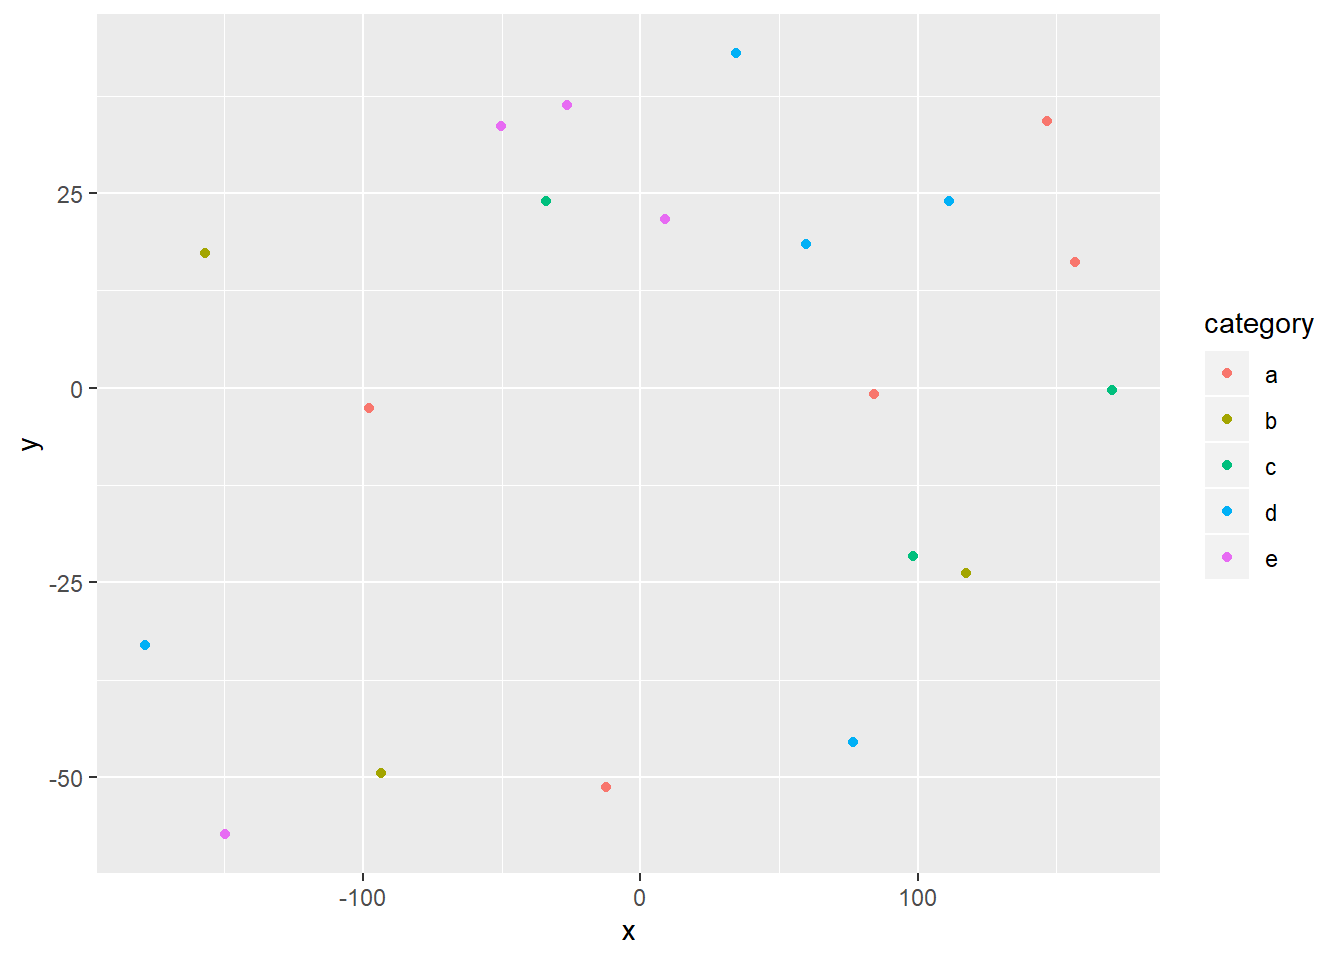
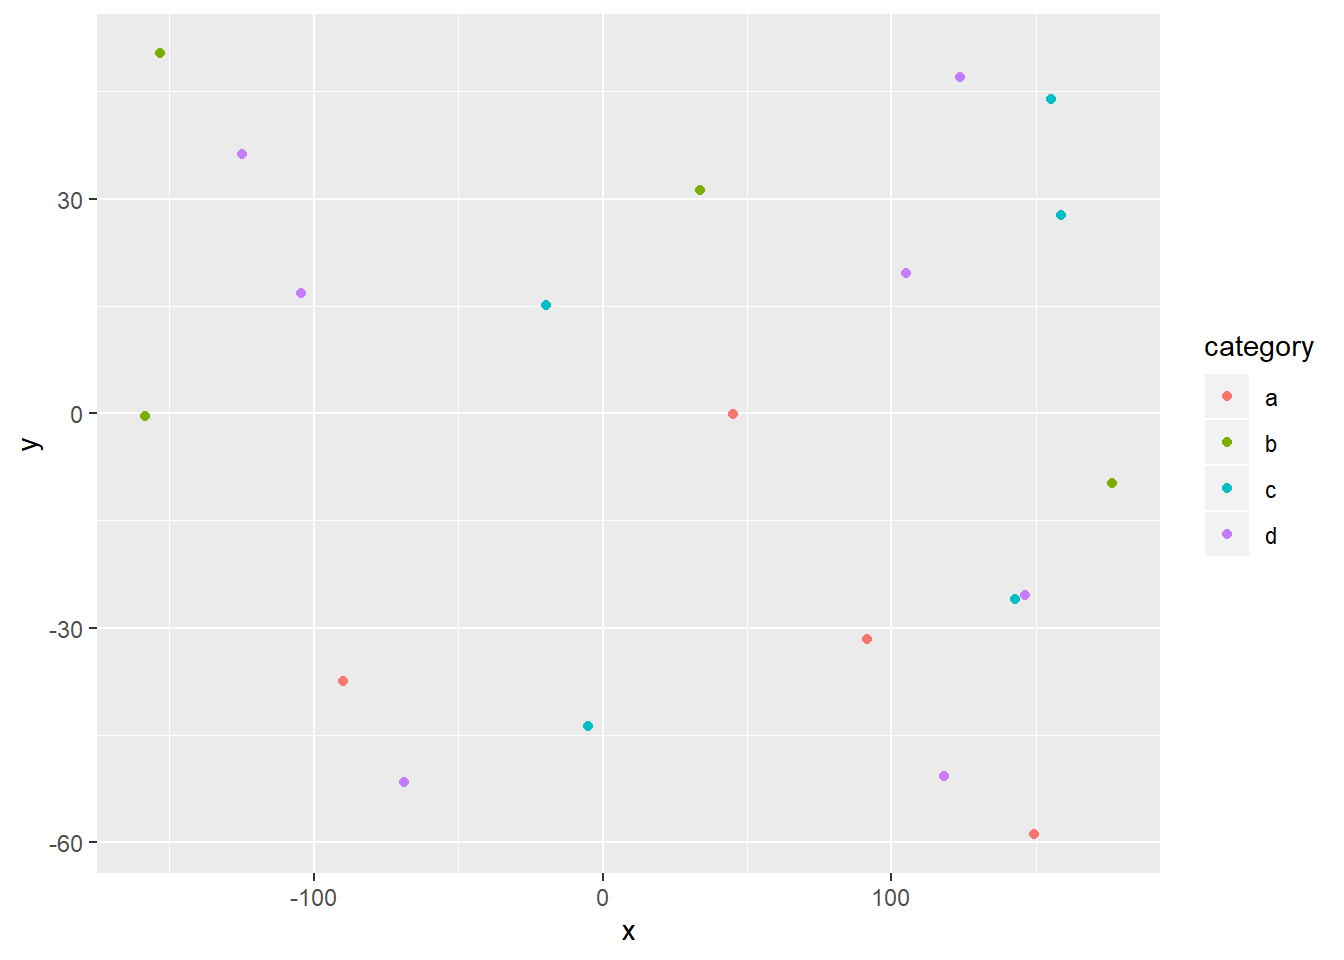
change

diff --git a/docs/index.html b/docs/index.html
@@ -368,7 +368,7 @@ div.tocify {
 
 
 <h1 class="title toc-ignore">Unmixing vegetation, soil and urban using linear mixture analysis</h1>
-<h3 class="subtitle">jokok</h3>
+<h3 class="subtitle">No subtitle</h3>
 <h4 class="author">Ke Li</h4>
 
 </div>
@@ -440,172 +440,172 @@ value
 <tbody>
 <tr>
 <td style="text-align:center;">
--178.67
+149.23
 </td>
 <td style="text-align:center;">
--33.07
+-58.89
 </td>
 <td style="text-align:center;">
-9.42
-</td>
-<td style="text-align:center;">
-d
-</td>
-<td style="text-align:center;">
--1.62
-</td>
-</tr>
-<tr>
-<td style="text-align:center;">
--33.94
-</td>
-<td style="text-align:center;">
-24.02
-</td>
-<td style="text-align:center;">
-13.06
-</td>
-<td style="text-align:center;">
-c
-</td>
-<td style="text-align:center;">
--1.89
-</td>
-</tr>
-<tr>
-<td style="text-align:center;">
--26.43
-</td>
-<td style="text-align:center;">
-36.31
-</td>
-<td style="text-align:center;">
-14.96
-</td>
-<td style="text-align:center;">
-e
-</td>
-<td style="text-align:center;">
--2.04
-</td>
-</tr>
-<tr>
-<td style="text-align:center;">
-170.06
-</td>
-<td style="text-align:center;">
--0.32
-</td>
-<td style="text-align:center;">
-7.84
-</td>
-<td style="text-align:center;">
-c
-</td>
-<td style="text-align:center;">
--0.44
-</td>
-</tr>
-<tr>
-<td style="text-align:center;">
-111.22
-</td>
-<td style="text-align:center;">
-23.98
-</td>
-<td style="text-align:center;">
-10.93
-</td>
-<td style="text-align:center;">
-d
-</td>
-<td style="text-align:center;">
--0.65
-</td>
-</tr>
-<tr>
-<td style="text-align:center;">
--93.64
-</td>
-<td style="text-align:center;">
--49.43
-</td>
-<td style="text-align:center;">
-19.97
-</td>
-<td style="text-align:center;">
-b
-</td>
-<td style="text-align:center;">
-0.16
-</td>
-</tr>
-<tr>
-<td style="text-align:center;">
-9.01
-</td>
-<td style="text-align:center;">
-21.69
-</td>
-<td style="text-align:center;">
-17.22
-</td>
-<td style="text-align:center;">
-e
-</td>
-<td style="text-align:center;">
-0.92
-</td>
-</tr>
-<tr>
-<td style="text-align:center;">
-34.31
-</td>
-<td style="text-align:center;">
-42.99
-</td>
-<td style="text-align:center;">
-15.92
-</td>
-<td style="text-align:center;">
-d
-</td>
-<td style="text-align:center;">
--2.19
-</td>
-</tr>
-<tr>
-<td style="text-align:center;">
-146.51
-</td>
-<td style="text-align:center;">
-34.23
-</td>
-<td style="text-align:center;">
-9.59
+14.43
 </td>
 <td style="text-align:center;">
 a
 </td>
 <td style="text-align:center;">
-1.41
+1.06
 </td>
 </tr>
 <tr>
 <td style="text-align:center;">
-76.56
+123.83
 </td>
 <td style="text-align:center;">
--45.51
+47.06
 </td>
 <td style="text-align:center;">
-5.65
+17.12
 </td>
 <td style="text-align:center;">
 d
 </td>
 <td style="text-align:center;">
--1.45
+1.60
+</td>
+</tr>
+<tr>
+<td style="text-align:center;">
+155.16
+</td>
+<td style="text-align:center;">
+43.94
+</td>
+<td style="text-align:center;">
+6.28
+</td>
+<td style="text-align:center;">
+c
+</td>
+<td style="text-align:center;">
+0.10
+</td>
+</tr>
+<tr>
+<td style="text-align:center;">
+-4.97
+</td>
+<td style="text-align:center;">
+-43.77
+</td>
+<td style="text-align:center;">
+5.35
+</td>
+<td style="text-align:center;">
+c
+</td>
+<td style="text-align:center;">
+0.74
+</td>
+</tr>
+<tr>
+<td style="text-align:center;">
+118.35
+</td>
+<td style="text-align:center;">
+-50.78
+</td>
+<td style="text-align:center;">
+19.40
+</td>
+<td style="text-align:center;">
+d
+</td>
+<td style="text-align:center;">
+1.34
+</td>
+</tr>
+<tr>
+<td style="text-align:center;">
+-104.27
+</td>
+<td style="text-align:center;">
+16.82
+</td>
+<td style="text-align:center;">
+5.86
+</td>
+<td style="text-align:center;">
+d
+</td>
+<td style="text-align:center;">
+-1.10
+</td>
+</tr>
+<tr>
+<td style="text-align:center;">
+-68.79
+</td>
+<td style="text-align:center;">
+-51.50
+</td>
+<td style="text-align:center;">
+12.88
+</td>
+<td style="text-align:center;">
+d
+</td>
+<td style="text-align:center;">
+1.33
+</td>
+</tr>
+<tr>
+<td style="text-align:center;">
+104.92
+</td>
+<td style="text-align:center;">
+19.66
+</td>
+<td style="text-align:center;">
+12.68
+</td>
+<td style="text-align:center;">
+d
+</td>
+<td style="text-align:center;">
+1.66
+</td>
+</tr>
+<tr>
+<td style="text-align:center;">
+33.70
+</td>
+<td style="text-align:center;">
+31.16
+</td>
+<td style="text-align:center;">
+13.22
+</td>
+<td style="text-align:center;">
+b
+</td>
+<td style="text-align:center;">
+-0.29
+</td>
+</tr>
+<tr>
+<td style="text-align:center;">
+45.02
+</td>
+<td style="text-align:center;">
+-0.16
+</td>
+<td style="text-align:center;">
+11.30
+</td>
+<td style="text-align:center;">
+a
+</td>
+<td style="text-align:center;">
+-2.13
 </td>
 </tr>
 </tbody>
@@ -622,8 +622,8 @@ d
   addPopups(~x[2], ~y[2], &quot;Random popup&quot;)
 m  # a map with the default OSM tile layer</code></pre>
 <div class="figure">
-<div id="htmlwidget-de61f09d5a257117f255" style="width:576px;height:288px;" class="leaflet html-widget"></div>
-<script type="application/json" data-for="htmlwidget-de61f09d5a257117f255">{"x":{"options":{"crs":{"crsClass":"L.CRS.EPSG3857","code":null,"proj4def":null,"projectedBounds":null,"options":{}}},"calls":[{"method":"addTiles","args":["//{s}.tile.openstreetmap.org/{z}/{x}/{y}.png",null,null,{"minZoom":0,"maxZoom":18,"tileSize":256,"subdomains":"abc","errorTileUrl":"","tms":false,"noWrap":false,"zoomOffset":0,"zoomReverse":false,"opacity":1,"zIndex":1,"detectRetina":false,"attribution":"&copy; <a href=\"http://openstreetmap.org\">OpenStreetMap<\/a> contributors, <a href=\"http://creativecommons.org/licenses/by-sa/2.0/\">CC-BY-SA<\/a>"}]},{"method":"addCircleMarkers","args":[[-33.069566572085,24.0209404751658,36.3055015727878,-0.318485302850604,23.9769291970879,-49.4251515436918,21.6904523503035,42.9869028925896,34.2309481278062,-45.5079367104918,16.1417607497424,-0.833394667133689,-21.56673213467,-23.8330422341824,33.6844487674534,-57.3697753250599,-51.2797445431352,18.5349761880934,-2.57016110233963,17.3680675216019],[-178.665560111403,-33.9444634225219,-26.4300960302353,170.061966665089,111.219265395775,-93.641289845109,9.01156070642173,34.3105103541166,146.514964532107,76.5595561545342,156.643073195592,84.3847481533885,98.2282597851008,117.514739446342,-50.2719991654158,-149.752975283191,-12.589113553986,59.5358280837536,-97.8964571189135,-156.950829690322],[9.4211109355092,13.0599273159169,14.9639102187939,7.8421066980809,10.9256097732577,19.9667231738567,17.2163610754069,15.923541279044,9.59151093382388,5.64601036254317,6.11351286293939,14.9245115020312,17.1928107528947,8.95131548517384,18.8871716661379,19.2296577629168,13.3973432763014,13.8091544841882,16.1621342238504,13.5198364651296],null,null,{"interactive":true,"className":"","stroke":true,"color":["d","c","e","c","d","b","e","d","a","d","a","a","c","b","e","e","a","d","a","b"],"weight":5,"opacity":0.5,"fill":true,"fillColor":["d","c","e","c","d","b","e","d","a","d","a","a","c","b","e","e","a","d","a","b"],"fillOpacity":0.2},null,null,null,null,null,{"interactive":false,"permanent":false,"direction":"auto","opacity":1,"offset":[0,0],"textsize":"10px","textOnly":false,"className":"","sticky":true},null]},{"method":"addPopups","args":[24.0209404751658,-33.9444634225219,"Random popup",null,null,{"maxWidth":300,"minWidth":50,"autoPan":true,"keepInView":false,"closeButton":true,"className":""}]}],"limits":{"lat":[-57.3697753250599,42.9869028925896],"lng":[-178.665560111403,170.061966665089]}},"evals":[],"jsHooks":[]}</script>
+<div id="htmlwidget-002770f205adc13c9284" style="width:576px;height:288px;" class="leaflet html-widget"></div>
+<script type="application/json" data-for="htmlwidget-002770f205adc13c9284">{"x":{"options":{"crs":{"crsClass":"L.CRS.EPSG3857","code":null,"proj4def":null,"projectedBounds":null,"options":{}}},"calls":[{"method":"addTiles","args":["//{s}.tile.openstreetmap.org/{z}/{x}/{y}.png",null,null,{"minZoom":0,"maxZoom":18,"tileSize":256,"subdomains":"abc","errorTileUrl":"","tms":false,"noWrap":false,"zoomOffset":0,"zoomReverse":false,"opacity":1,"zIndex":1,"detectRetina":false,"attribution":"&copy; <a href=\"http://openstreetmap.org\">OpenStreetMap<\/a> contributors, <a href=\"http://creativecommons.org/licenses/by-sa/2.0/\">CC-BY-SA<\/a>"}]},{"method":"addCircleMarkers","args":[[-58.8949367031455,47.0587040763348,43.9401089306921,-43.7721710745245,-50.7847544364631,16.8155353423208,-51.5039299149066,19.6575680281967,31.1554729286581,-0.158956227824092,15.1787350606173,50.3357696067542,-0.33901515416801,-37.4042803421617,36.2011318746954,-31.6280383430421,-9.8059309925884,-25.3769010398537,-25.9309492819011,27.7745505329221],[149.232934433967,123.832393102348,155.158222066239,-4.97251594439149,118.354766825214,-104.270865647122,-68.7909223046154,104.924738835543,33.7013038247824,45.0172139145434,-19.4609212316573,-153.283300632611,-158.40470071882,-89.9530844762921,-124.655595738441,91.4463387988508,176.406748602167,146.350598093122,142.904128236696,158.584150895476],[14.4316891266499,17.1226371766534,6.27954134251922,5.34613716299646,19.4030893105082,5.85642379242927,12.8770802298095,12.6786975585856,13.2192638481501,11.3005701743532,11.9256250769831,15.774099555565,15.3038904967252,13.6763794207945,19.4873168342747,17.0600859005935,19.0309318702202,17.3774524428882,12.0712256222032,13.4222202375531],null,null,{"interactive":true,"className":"","stroke":true,"color":["a","d","c","c","d","d","d","d","b","a","c","b","b","a","d","a","b","d","c","c"],"weight":5,"opacity":0.5,"fill":true,"fillColor":["a","d","c","c","d","d","d","d","b","a","c","b","b","a","d","a","b","d","c","c"],"fillOpacity":0.2},null,null,null,null,null,{"interactive":false,"permanent":false,"direction":"auto","opacity":1,"offset":[0,0],"textsize":"10px","textOnly":false,"className":"","sticky":true},null]},{"method":"addPopups","args":[47.0587040763348,123.832393102348,"Random popup",null,null,{"maxWidth":300,"minWidth":50,"autoPan":true,"keepInView":false,"closeButton":true,"className":""}]}],"limits":{"lat":[-58.8949367031455,50.3357696067542],"lng":[-158.40470071882,176.406748602167]}},"evals":[],"jsHooks":[]}</script>
 <p class="caption">
 Map of completely random data
 </p>
